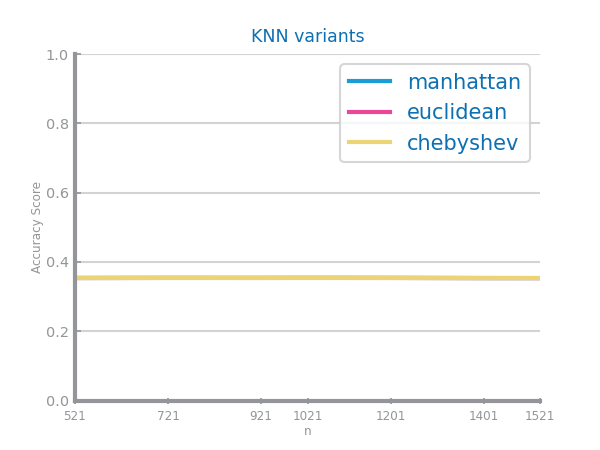
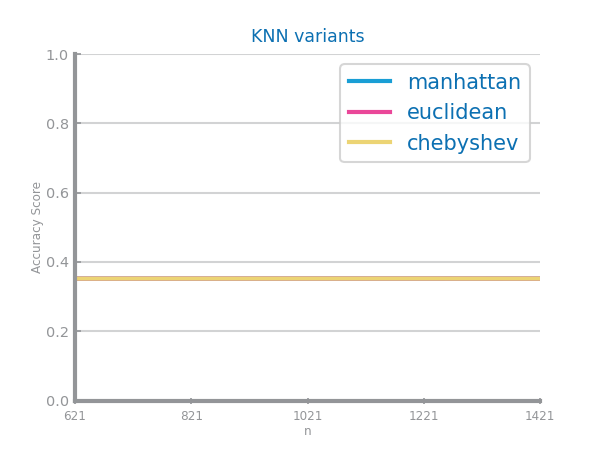
Add specific k exploration for health

diff --git a/health/src/evaluation/knn_classifier.py b/health/src/evaluation/knn_classifier.py
@@ -15,7 +15,7 @@ class Knn_classifier:
         self.test_data = test_data
         self.test_y = self.test_data.pop('readmitted').values
         self.neighbours = [3,5,7,9,11,13,15,17,19,21]
-        self.large_neighbours = [921, 971, 1021, 1071, 1121, 1171, 1201]
+        self.large_neighbours = [621, 821, 1021, 1221, 1421]
         self.dist = ['manhattan', 'euclidean', 'chebyshev']
 
     def explore_best_k_value(self, method="def"):
